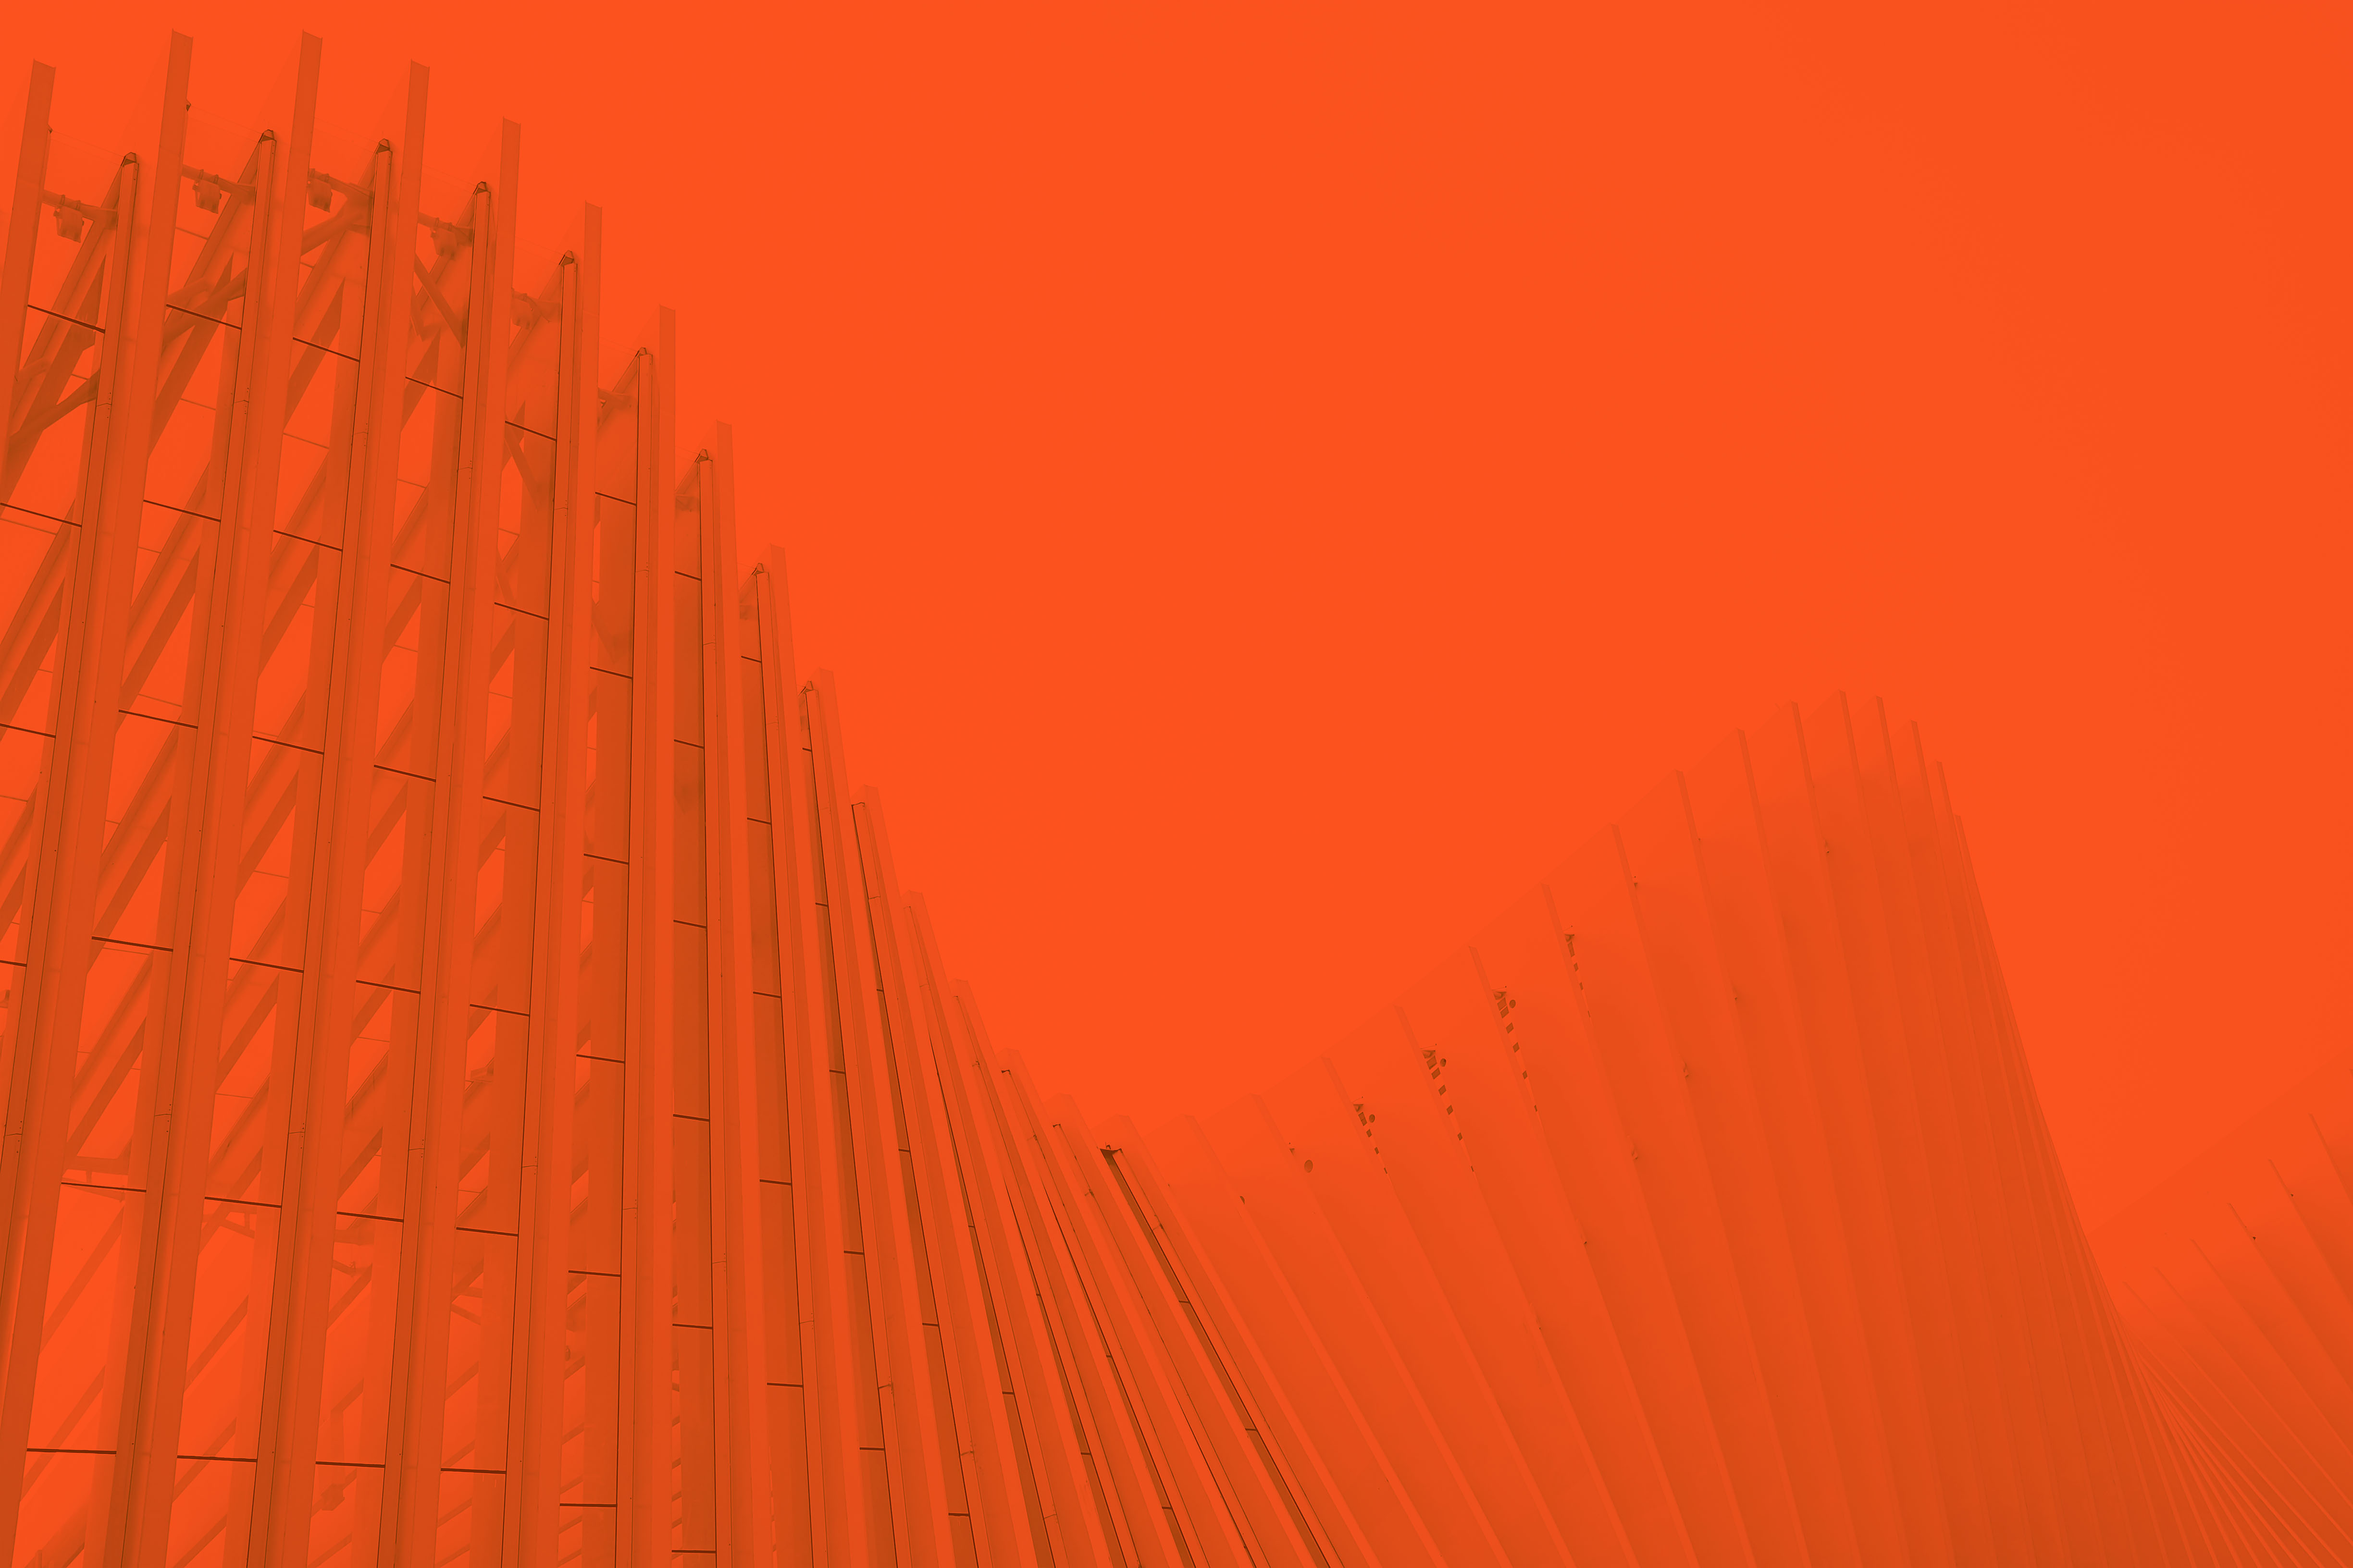
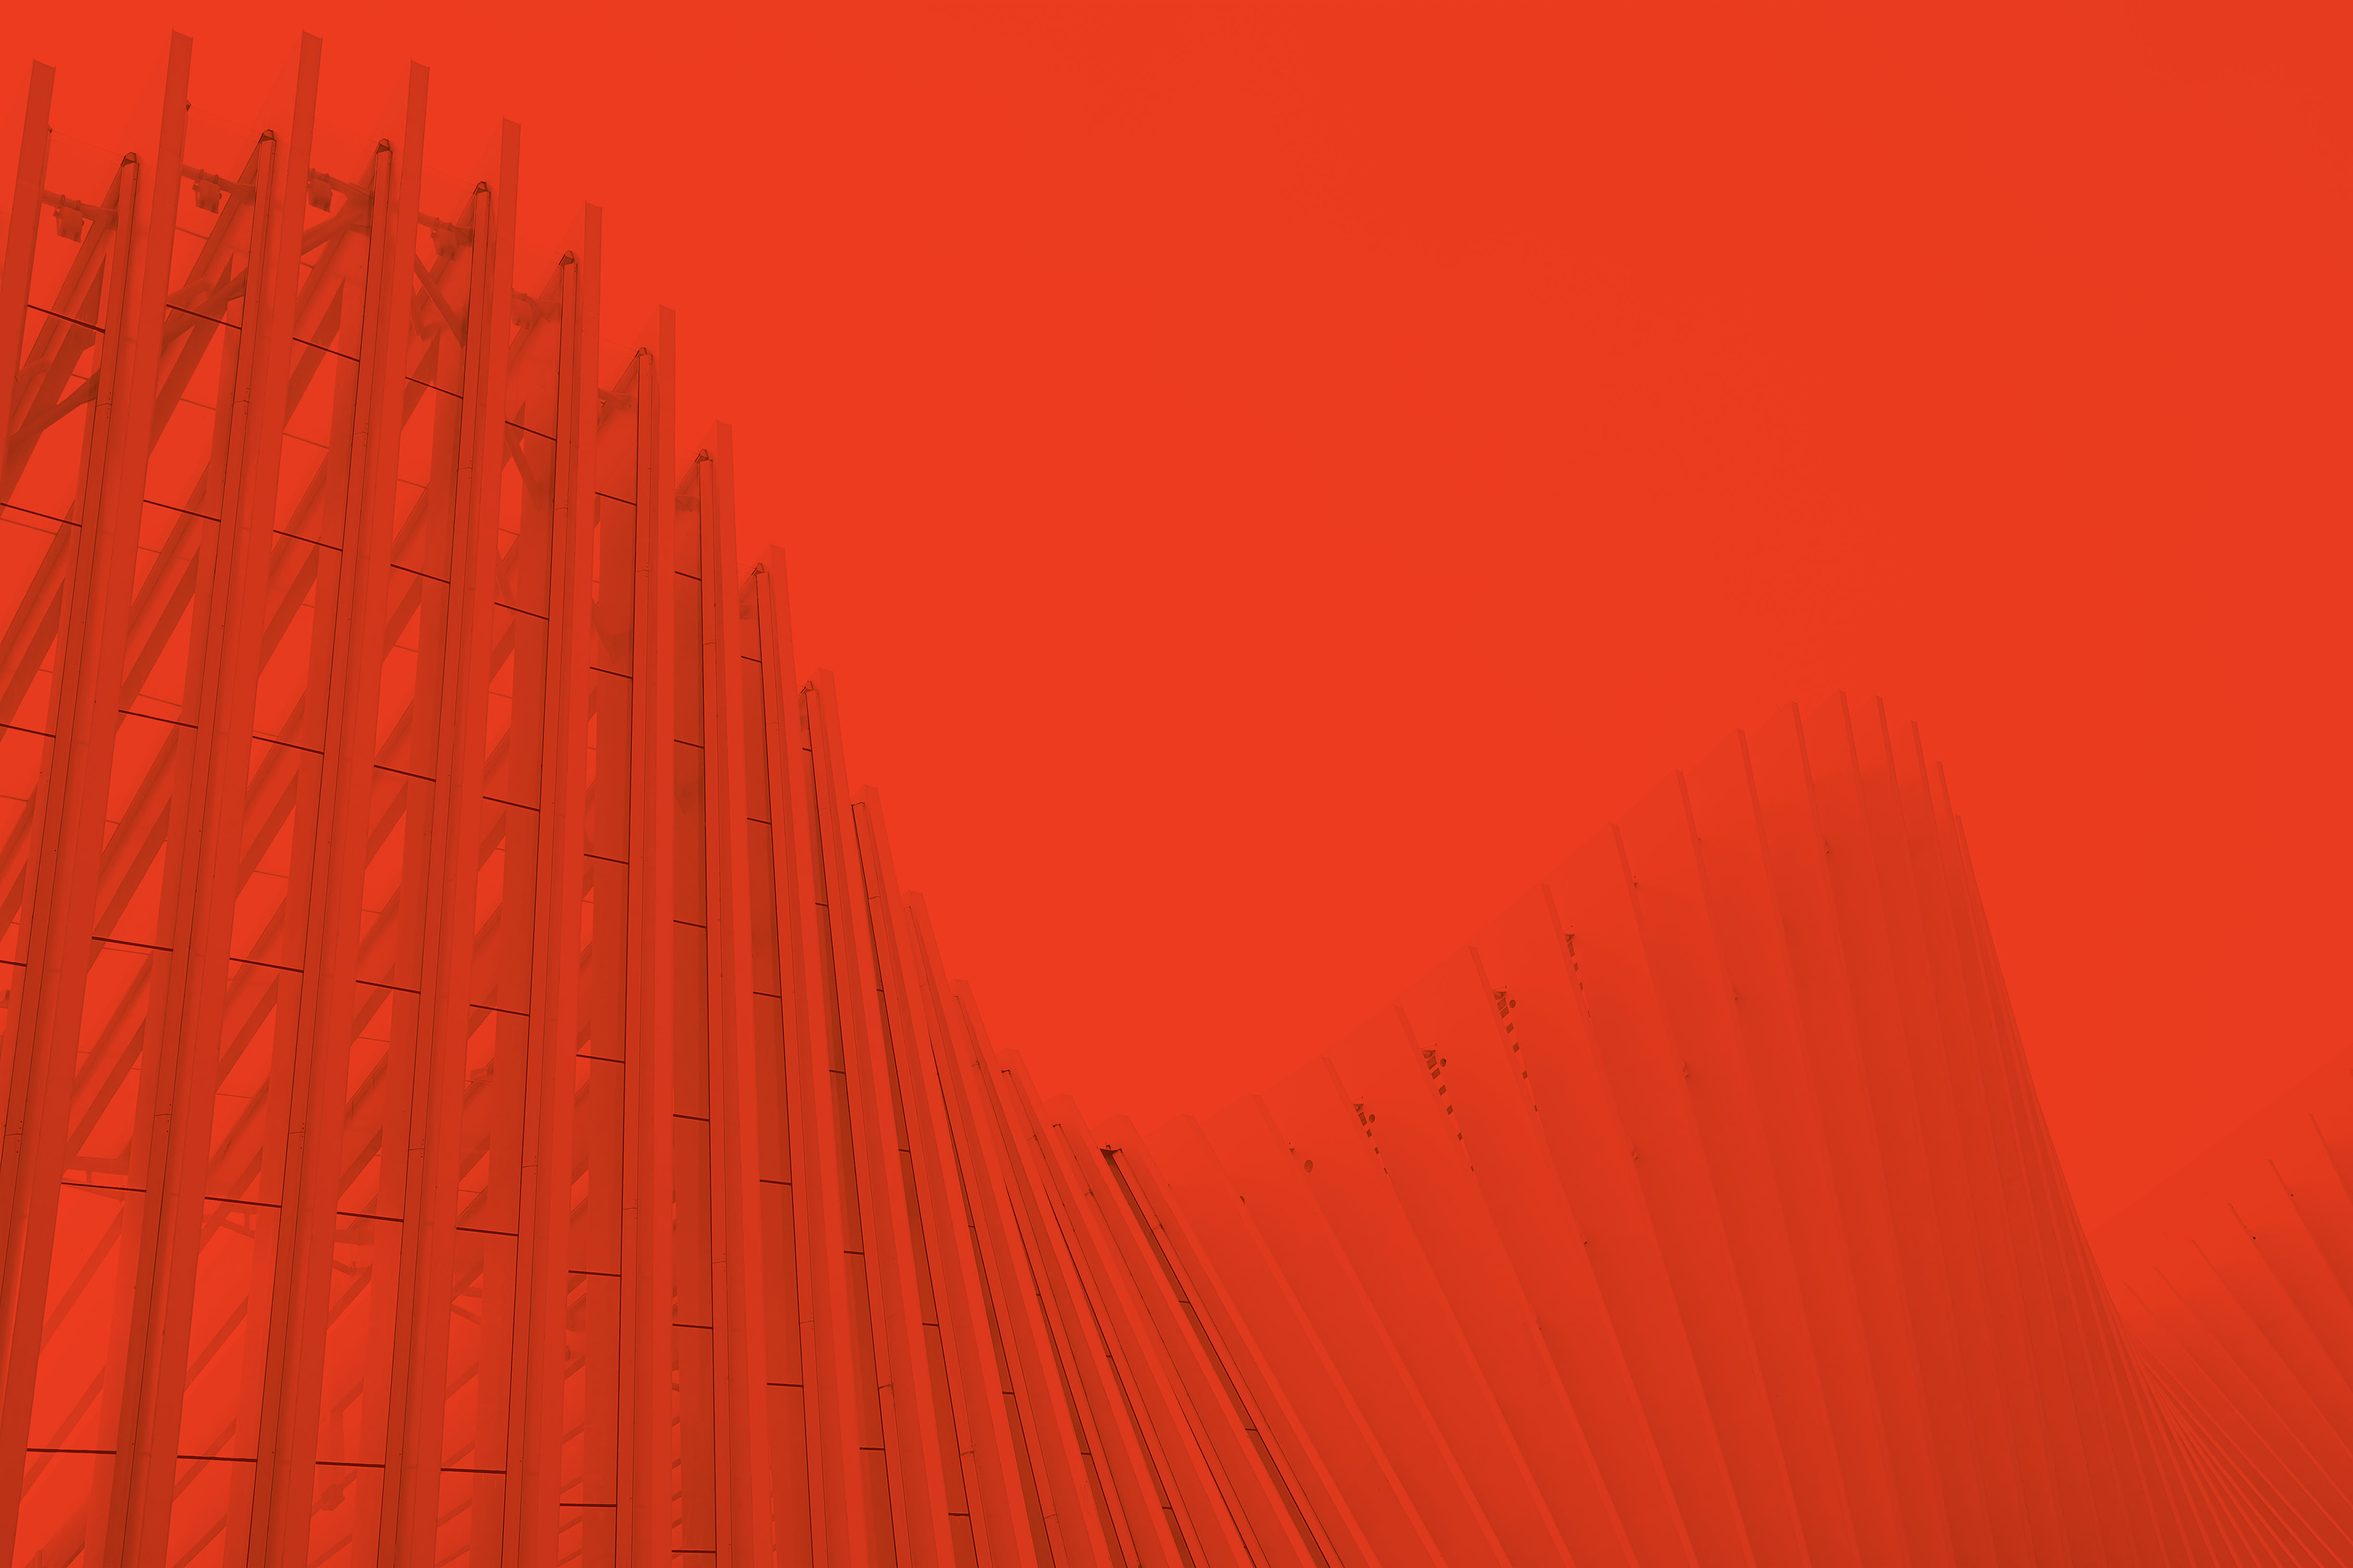
commit-color

Changed region(s): [[0.0625, 0.6875, 0.0938, 0.7188]]

diff --git a/css/style.css b/css/style.css
@@ -3,8 +3,8 @@
 
 
 :root {
-    --c-brand: #ff3b00;
-    --c-hover: #c80303;
+    --c-brand: #d60303;
+    --c-hover: #ff0d18;
     --c-light: #fbf7f4;
     --f-tittle: 'Poppins', sans-serif;
     --f-body: 'Montserrat', sans-serif;
@@ -33,6 +33,7 @@ body{
 .menu {
     padding: 0;
     margin: 0;
+    background-color: var(--c-brand);
 }
 
 .navbar-nav {
@@ -222,7 +223,7 @@ body{
 }
 
 .nav-orange {
-    background-color: #ff3b00;
+    background-color: var(--c-brand);
     padding: 0;
     margin: 0;
 }
